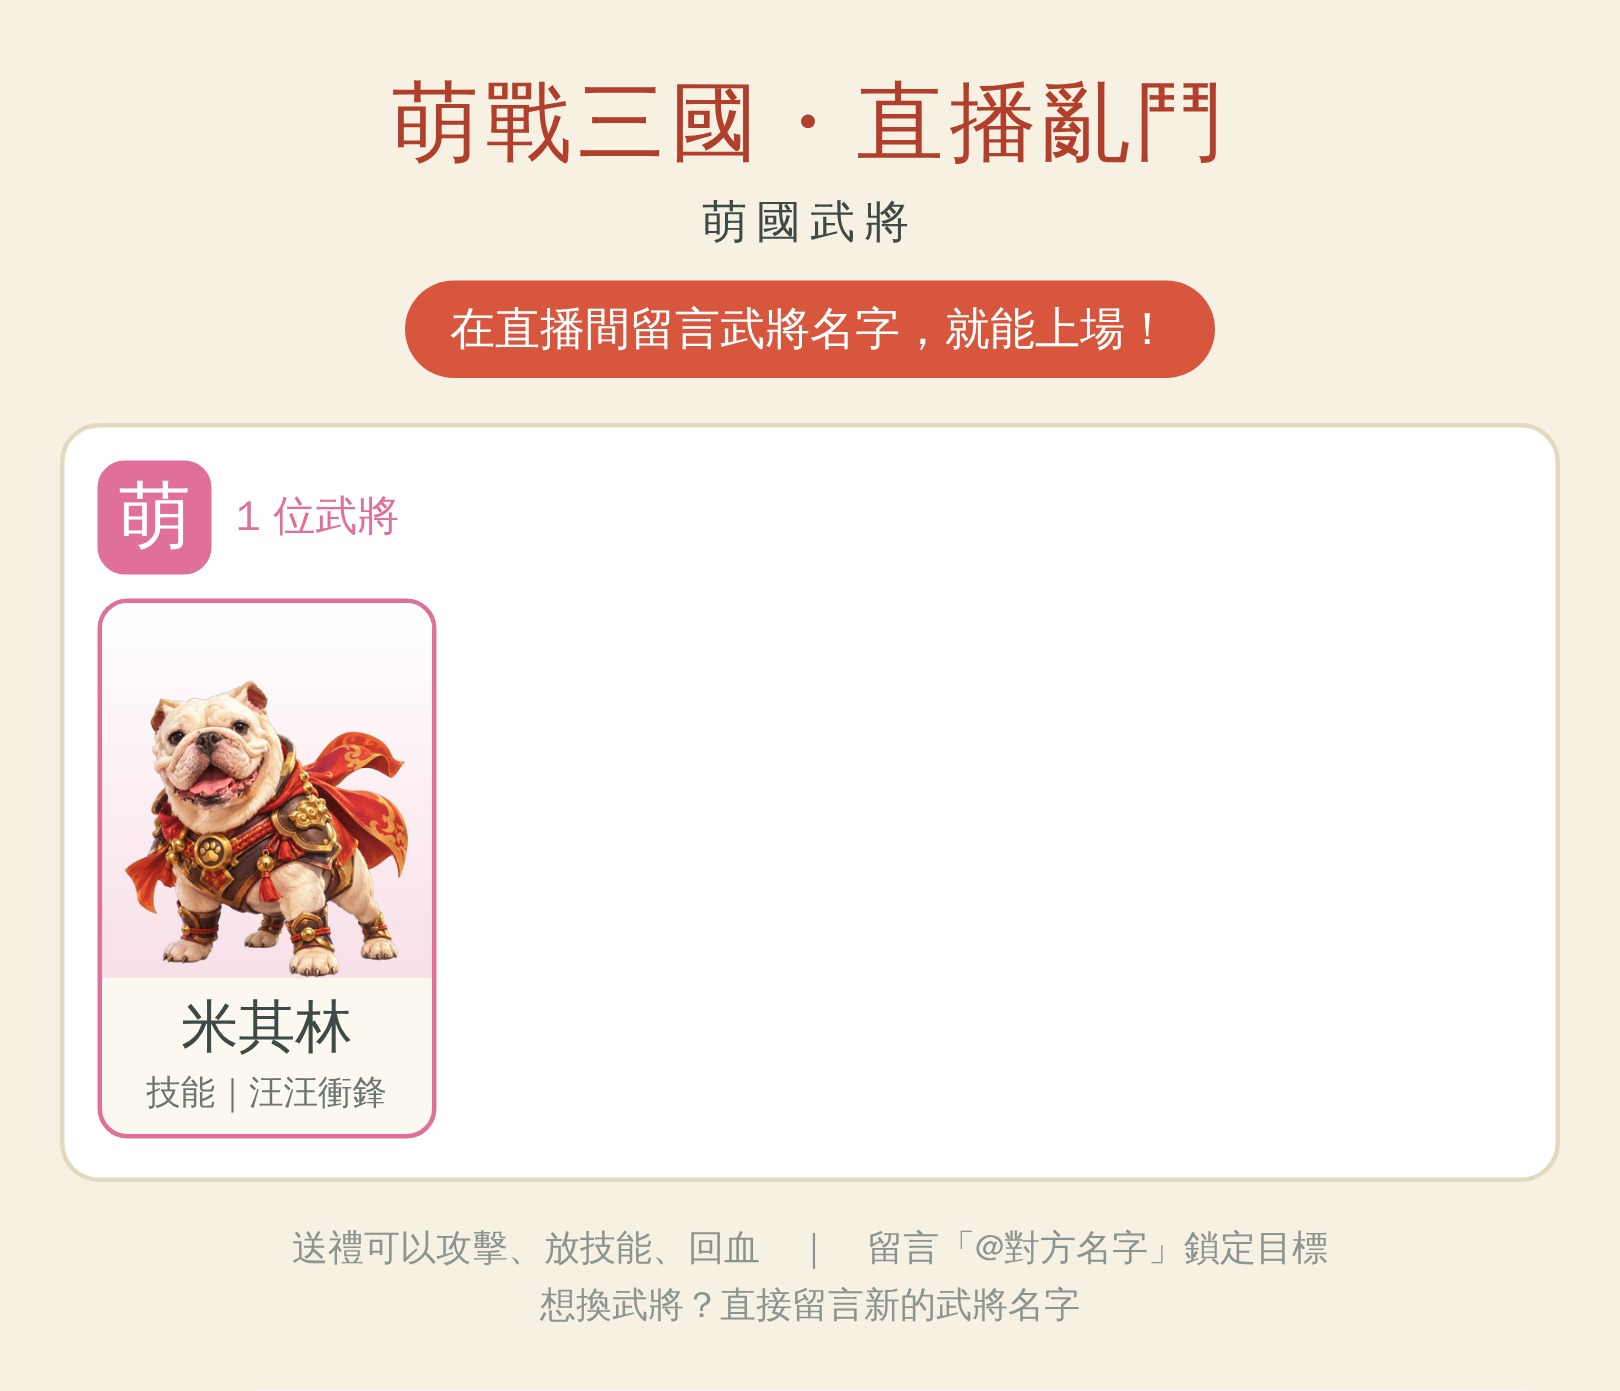
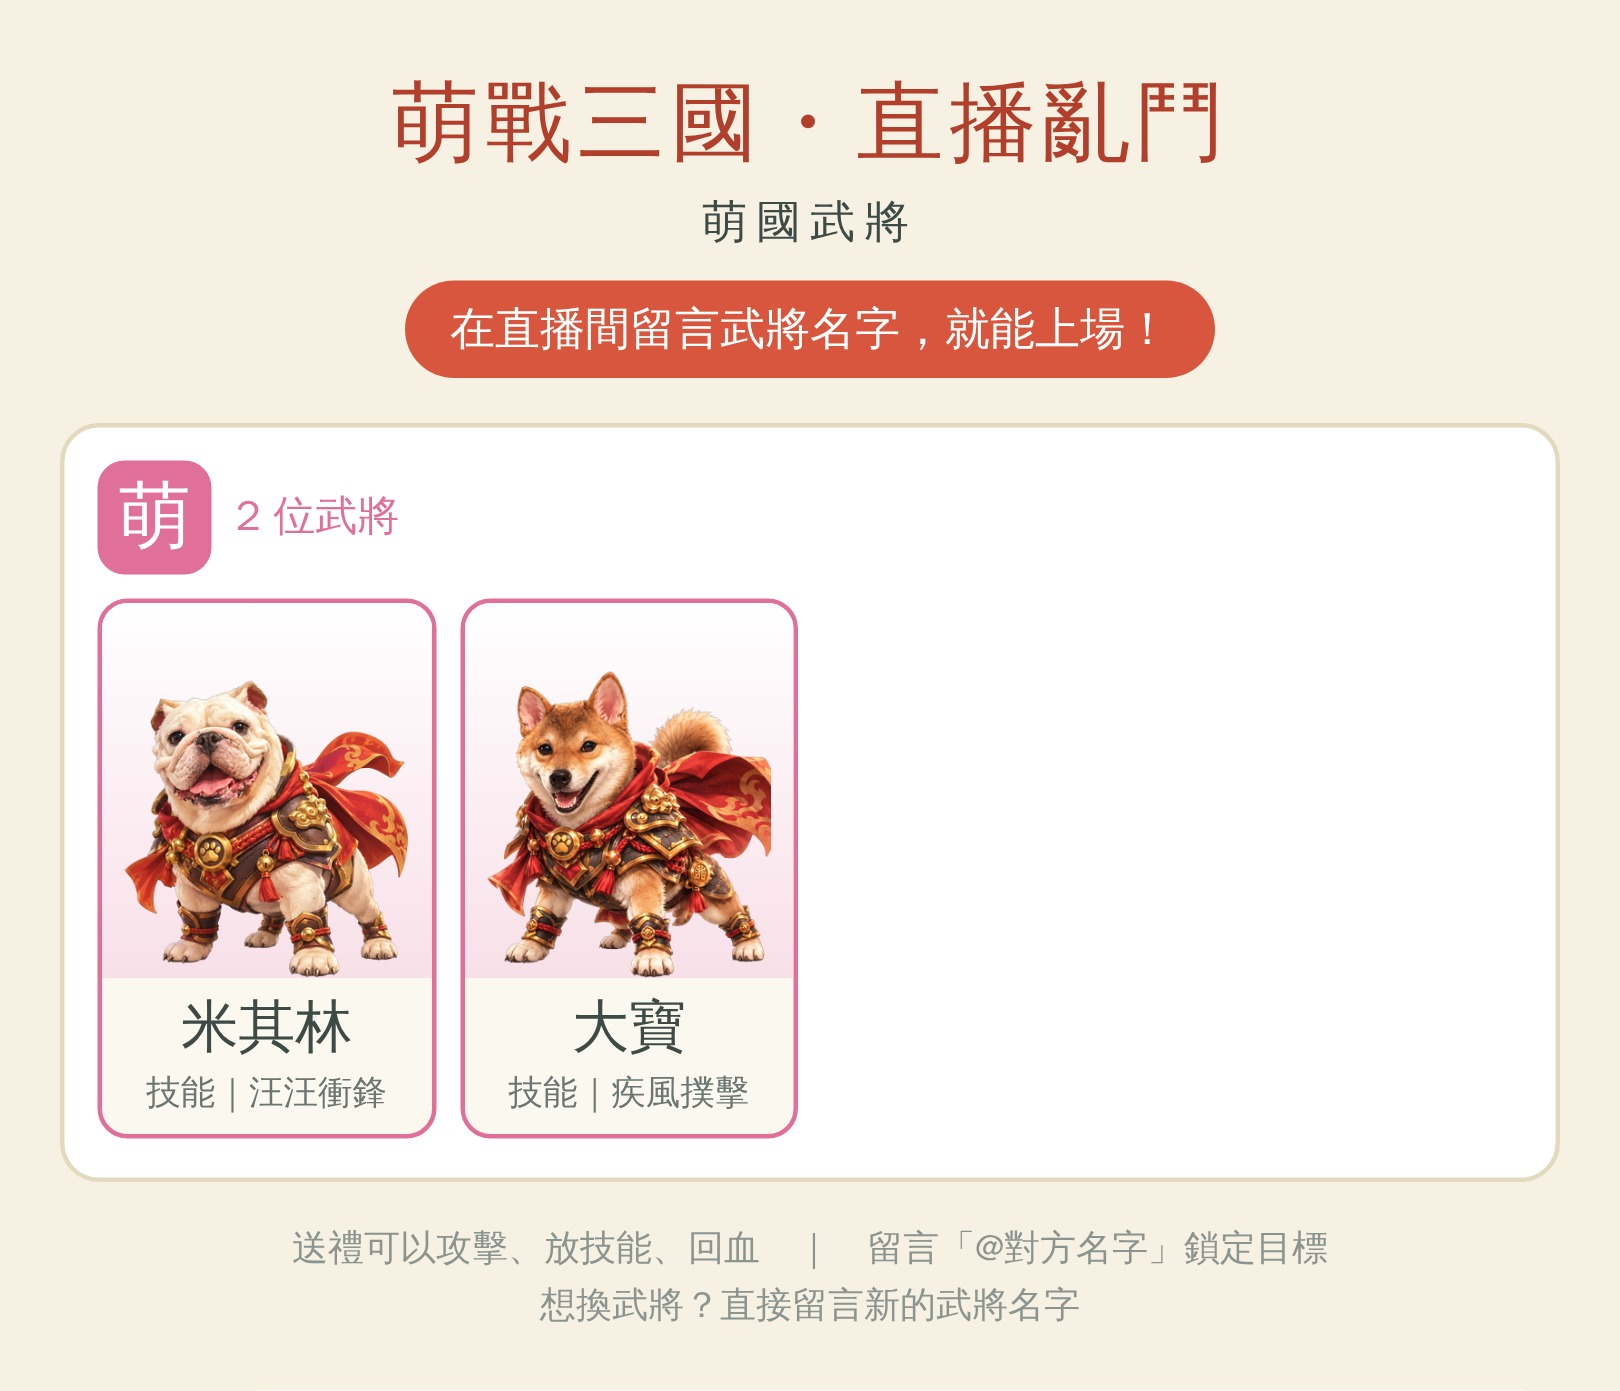
新增角色「大寶」（萌國柴犬遊俠）
- 咖哩提供的柴犬圖，AI 去背（尾巴毛邊、鬍鬚、爪子都保留，腳下陰影去除）後縮成 312x396，放在 assets/heroes/dabao.png
- data/extra-heroes.js：遊俠、血 540／攻 72／防 25（遊俠平均）、技能「疾風撲擊」
- 重新產生武將名冊（全部、萌國）

Claude-Session: https://claude.ai/code/session_01J1mi4tQsbQufTfnNbsrTar

Changed region(s): [[0.2778, 0.4637, 0.4938, 0.8347], [0.463, 0.4328, 0.4938, 0.4637], [0.2778, 0.4328, 0.3086, 0.4637]]

diff --git a/data/extra-heroes.js b/data/extra-heroes.js
@@ -9,4 +9,6 @@
 window.HEROES_DATA = window.HEROES_DATA.concat([
   // 米其林：萌國的鬥牛犬猛將。能力值取猛將中間檔（跟關羽、張飛、趙雲同一檔）。
   { heroId: 'michelin', displayName: '米其林', faction: 'Meng', troop: 'Vanguard', baseHp: 928, baseAtk: 52, baseArmor: 47, skillName: '汪汪衝鋒', extra: true },
+  // 大寶：萌國的柴犬遊俠。能力值取遊俠平均（血少、攻高、防低），技能演出是射出光彈。
+  { heroId: 'dabao', displayName: '大寶', faction: 'Meng', troop: 'Ranger', baseHp: 540, baseAtk: 72, baseArmor: 25, skillName: '疾風撲擊', extra: true },
 ]);

diff --git a/CLAUDE.md b/CLAUDE.md
@@ -70,7 +70,7 @@
 
 ## 素材與資料：來自 Curry_Games（只讀）
 - `sky03104/Curry_Games` 是另一個遊戲「萌戰三國」。**只能讀，不可修改、不可 commit、不可 push。**
-- 武將資料以 `Curry_Games/UnityProject/Assets/_Project/Data/heroes.json` 為準（38 隻）。**例外：直播亂鬥自己新增的角色**放在 `data/extra-heroes.js`（手寫，不會被同步工具蓋掉），目前只有「米其林」。
+- 武將資料以 `Curry_Games/UnityProject/Assets/_Project/Data/heroes.json` 為準（38 隻）。**例外：直播亂鬥自己新增的角色**放在 `data/extra-heroes.js`（手寫，不會被同步工具蓋掉），目前有「米其林」「大寶」（都是萌國）。
   中文名、英文 ID、陣營的對應**一律照這個檔，不要自己猜**。
   - 注意：檔案裡陣營的寫法是 `Wei`／`Shu`／`Wu`／`Qun`（群不是寫「群」）。
 - 武將圖用**全身圖**：`Curry_Games/UnityProject/Assets/_Project/Resources/HeroPortraitsFullBody2D/`，
@@ -81,6 +81,7 @@
 - **自己新增的角色與陣營**（2026-11-13 咖哩要求加入「米其林」＋新陣營「萌國」）：
   - 米其林：鬥牛犬披戰甲，`heroId: michelin`，猛將（技能演出＝衝撞地裂），血 928／攻 52／防 47（猛將中間檔，跟關羽、張飛、趙雲同一檔），技能「汪汪衝鋒」。
     名字、能力值、技能名都是 Claude 先定的，咖哩沒指定，要改就改 `data/extra-heroes.js`。
+  - 大寶（2026-11-13 咖哩第二隻）：柴犬披戰甲，`heroId: dabao`，遊俠（技能演出＝射出光彈），血 540／攻 72／防 25（遊俠平均），技能「疾風撲擊」。名字以外的設定一樣是 Claude 先定的。
   - 陣營「萌國」：`Meng`，畫面上顯示單字「萌」（跟魏蜀吳群一致），名冊圖叫「萌國武將」，顏色 `#E0709A`（粉紅，跟群的深洋紅分得開）。
   - 圖：咖哩提供的原圖是白底，用 `tools/cutout_hero.py` 去背（AI 去背 rembg，連腳下陰影一起去掉）並縮成 312x396 放在 `assets/heroes/michelin.png`。
     之後要再加角色：照 `data/extra-heroes.js` 檔頭的四個步驟做。
@@ -172,8 +173,8 @@
 | `index.html` | 入口。直接開＝帶假事件面板的試玩模式；網址加 `?obs=1`＝只有透明遊戲畫面（給 OBS） |
 | `js/config.js` | **設定檔**：禮物、傷害、血量、復活秒數、顏色 |
 | `data/heroes.js` | 38 隻武將資料（自動產生） |
-| `assets/heroes/` | 39 張武將全身圖（已縮小）：38 張來自萌戰三國，加上自己新增的米其林 |
-| `data/extra-heroes.js` | 自己新增的角色資料（手寫）：米其林 |
+| `assets/heroes/` | 40 張武將全身圖（已縮小）：38 張來自萌戰三國，加上自己新增的米其林、大寶 |
+| `data/extra-heroes.js` | 自己新增的角色資料（手寫）：米其林、大寶 |
 | `tools/cutout_hero.py` | 把角色圖去背並轉成遊戲用的全身圖 |
 | `js/events.js` | 事件來源層（假面板／之後的 TikTok） |
 | `js/gift-settings.js` | TikTok 禮物 → 動作的設定（存在瀏覽器與直播用網址裡） |
